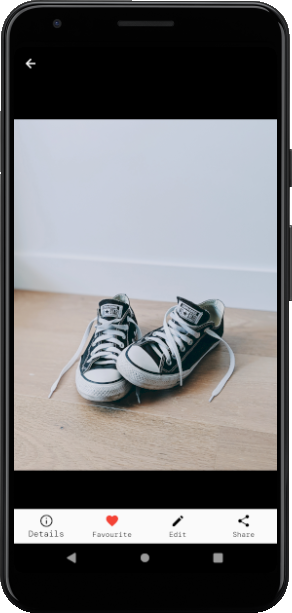
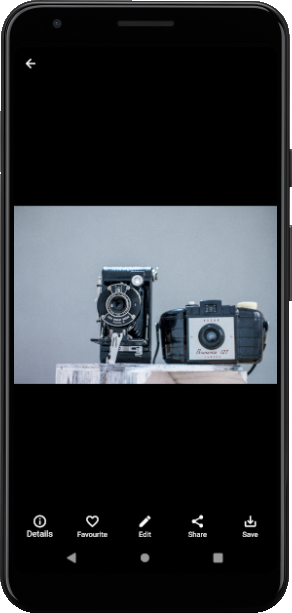
Added Loading Indicator

diff --git a/lib/pages/photo_detail.dart b/lib/pages/photo_detail.dart
@@ -26,6 +26,10 @@ class PhotoDetailPage extends StatelessWidget {
     "Share": {
       "icon": Icons.share,
       "callback": (BuildContext context) {},
+    },
+    "Save": {
+      "icon": Icons.save_alt,
+      "callback": (BuildContext context) {},
     }
   };
 
@@ -40,69 +44,97 @@ class PhotoDetailPage extends StatelessWidget {
       body: Center(
         child: Image.network(
           photo.src.original,
-          fit: BoxFit.fitWidth,
-          loadingBuilder: (context, child, loadingProgress) {
-            if (loadingProgress == null) return child;
-            return Stack(
-              alignment: Alignment.center,
-              children: [
-                Image.network(
-                  photo.src.medium,
-                  fit: BoxFit.fitWidth,
-                  loadingBuilder: (context, child, loadingProgress) {
-                    if (loadingProgress == null) return child;
-                    return Center(
-                      child: CircularProgressIndicator(),
-                    );
-                  },
-                ),
-                CircularProgressIndicator(
-                  valueColor: AlwaysStoppedAnimation(Colors.white),
-                ),
-              ],
-            );
-          },
+          fit: BoxFit.fill,
+          loadingBuilder: loadingBuilder,
         ),
       ),
-      bottomNavigationBar: BottomNavigationBar(
-        type: BottomNavigationBarType.fixed,
-        onTap: (index) {
-          if (index == 1) {
-            (navbarItems.entries.toList()[index].value["callback"] as Function)(
-                context, photo);
-          } else {
-            (navbarItems.entries.toList()[index].value["callback"]
-                as Function)(context);
-          }
-        },
-        showSelectedLabels: true,
-        showUnselectedLabels: true,
-        elevation: .0,
-        selectedItemColor: Colors.black,
-        unselectedItemColor: Colors.black,
-        items: navbarItems.entries.map((element) {
-          return BottomNavigationBarItem(
-            icon: element.key == "Favourite"
-                ? StreamBuilder<Photo>(
-                    initialData: photo,
-                    stream:
-                        BlocProvider.of<PhotoBloc>(context).likedPhotos$.stream,
-                    builder: (context, snapshot) {
-                      if (snapshot.data.id == photo.id) {
-                        this.photo.isLiked = snapshot.data.isLiked;
-                      }
-                      return photo.isLiked
-                          ? Icon(
-                              Icons.favorite,
-                              color: Colors.red,
-                            )
-                          : Icon(Icons.favorite_border);
-                    },
-                  )
-                : Icon(element.value["icon"]),
-            title: Text(element.key),
-          );
-        }).toList(),
+      bottomNavigationBar: Theme(
+        data: ThemeData(
+          bottomAppBarColor: Colors.black,
+          canvasColor: Colors.black,
+        ),
+        child: BottomNavigationBar(
+          type: BottomNavigationBarType.fixed,
+          onTap: (index) {
+            if (index == 1) {
+              (navbarItems.entries.toList()[index].value["callback"]
+                  as Function)(context, photo);
+            } else {
+              (navbarItems.entries.toList()[index].value["callback"]
+                  as Function)(context);
+            }
+          },
+          showSelectedLabels: true,
+          showUnselectedLabels: true,
+          elevation: .0,
+          selectedItemColor: Colors.white,
+          unselectedItemColor: Colors.white,
+          items: navbarItems.entries.map((element) {
+            return BottomNavigationBarItem(
+              icon: element.key == "Favourite"
+                  ? StreamBuilder<Photo>(
+                      initialData: photo,
+                      stream: BlocProvider.of<PhotoBloc>(context)
+                          .likedPhotos$
+                          .stream,
+                      builder: (context, snapshot) {
+                        if (snapshot.data.id == photo.id) {
+                          this.photo.isLiked = snapshot.data.isLiked;
+                        }
+                        return photo.isLiked
+                            ? Icon(
+                                Icons.favorite,
+                                color: Colors.red,
+                              )
+                            : Icon(Icons.favorite_border);
+                      },
+                    )
+                  : Icon(element.value["icon"]),
+              title: Text(element.key),
+            );
+          }).toList(),
+        ),
+      ),
+    );
+  }
+
+  Widget loadingBuilder(
+      BuildContext context, Widget child, ImageChunkEvent loadingProgress) {
+    if (loadingProgress == null) return child;
+    double progressValue = loadingProgress.cumulativeBytesLoaded /
+        loadingProgress.expectedTotalBytes;
+    return Padding(
+      padding: const EdgeInsets.all(8.0),
+      child: Column(
+        mainAxisSize: MainAxisSize.min,
+        children: <Widget>[
+          Padding(
+            padding: const EdgeInsets.all(8.0),
+            child: Text(
+              "Loading Full Resolution Image",
+              style: TextStyle(
+                color: Colors.white,
+              ),
+            ),
+          ),
+          LinearProgressIndicator(
+            backgroundColor: Colors.white,
+            value: progressValue,
+            valueColor: AlwaysStoppedAnimation(
+              ColorTween(begin: Colors.red[300], end: Colors.green)
+                  .transform(progressValue),
+            ),
+          ),
+          Padding(
+            padding: const EdgeInsets.all(8.0),
+            child: Text(
+              "${(progressValue * 100).round()} %",
+              style: TextStyle(
+                color: Colors.white,
+              ),
+            ),
+          ),
+        ],
       ),
     );
   }

diff --git a/lib/pages/tabs/profile.dart b/lib/pages/tabs/profile.dart
@@ -1,0 +1,49 @@
+import 'package:flutter/material.dart';
+import 'package:insta_creator/widgets/photo_grid.dart';
+
+class ProfileTab extends StatefulWidget {
+  @override
+  _ProfileTabState createState() => _ProfileTabState();
+}
+
+class _ProfileTabState extends State<ProfileTab> {
+  final ScrollController scrollController = ScrollController();
+
+  @override
+  Widget build(BuildContext context) {
+    return SingleChildScrollView(
+      scrollDirection: Axis.vertical,
+      physics: BouncingScrollPhysics(),
+      child: Column(
+        mainAxisAlignment: MainAxisAlignment.start,
+        mainAxisSize: MainAxisSize.min,
+        children: <Widget>[
+          Padding(
+            padding: const EdgeInsets.all(16.0),
+            child: CircleAvatar(
+              backgroundColor: Colors.grey[300],
+              radius: MediaQuery.of(context).size.width * 0.15,
+            ),
+          ),
+          Padding(
+            padding: const EdgeInsets.all(16.0),
+            child: Text(
+              "@Saurabh Singh",
+              style: TextStyle(
+                color: Colors.black,
+                fontWeight: FontWeight.bold,
+                fontSize: 24.0,
+              ),
+            ),
+          ),
+          PhotoGrid(
+            photos: [],
+            scrollController: scrollController,
+            hasReachedMax: true,
+            storageKey: '__profile_page_key__',
+          ),
+        ],
+      ),
+    );
+  }
+}

diff --git a/lib/pages/home.dart b/lib/pages/home.dart
@@ -4,6 +4,7 @@ import 'package:flutter_bloc/flutter_bloc.dart';
 import 'package:insta_creator/blocs/photo/search_bloc.dart';
 import 'package:insta_creator/blocs/photo/search_event.dart';
 import 'package:insta_creator/pages/tabs/discover.dart';
+import 'package:insta_creator/pages/tabs/profile.dart';
 import 'package:insta_creator/pages/tabs/search.dart';
 
 class HomePage extends StatefulWidget {
@@ -36,7 +37,7 @@ class _HomePageState extends State<HomePage>
     SearchTab(),
     Container(),
     Container(),
-    Container(),
+    ProfileTab(),
   ];
 
   @override
@@ -115,7 +116,7 @@ class _HomePageState extends State<HomePage>
       bottomNavigationBar: BottomNavigationBar(
         onTap: (index) {
           if (index != tabController.index) {
-            tabController.animateTo(index);
+            tabController.animateTo(index, curve: Curves.fastOutSlowIn);
             setState(() {
               tabController.index = index;
             });

diff --git a/lib/widgets/photo_grid.dart b/lib/widgets/photo_grid.dart
@@ -34,12 +34,23 @@ class PhotoGrid extends StatelessWidget {
 
   @override
   Widget build(BuildContext context) {
+    if (photos.length == 0) {
+      return Center(
+        child: Text(
+          "No Photos to display",
+          style: TextStyle(
+            color: Colors.black,
+          ),
+        ),
+      );
+    }
     return StaggeredGridView.countBuilder(
         padding: EdgeInsets.symmetric(horizontal: 12.0, vertical: 8.0),
         controller: scrollController,
         physics: BouncingScrollPhysics(),
         key: PageStorageKey('$storageKey'),
         crossAxisCount: 2,
+        shrinkWrap: true,
         crossAxisSpacing: 12,
         mainAxisSpacing: 12,
         itemCount: hasReachedMax ? photos.length : photos.length + 1,

diff --git a/lib/widgets/photo_card.dart b/lib/widgets/photo_card.dart
@@ -13,7 +13,9 @@ class PhotoCard extends StatelessWidget {
       BuildContext context, Widget child, ImageChunkEvent progress) {
     if (progress == null) return child;
     return Center(
-      child: CircularProgressIndicator(),
+      child: CircularProgressIndicator(
+        valueColor: AlwaysStoppedAnimation(Colors.black),
+      ),
     );
   }
 

diff --git a/README.md b/README.md
@@ -5,6 +5,7 @@
 
 ![Discover](screenshots/discover.PNG "Discover")
 ![Liked](screenshots/liked.PNG "Liked")
+![Loading](screenshots/loading.PNG "Loading")
 ![Details](screenshots/details.PNG "Details")
 ![Search](screenshots/search_uninit.PNG "Search")
 ![Search](screenshots/search_field.PNG "Search")
